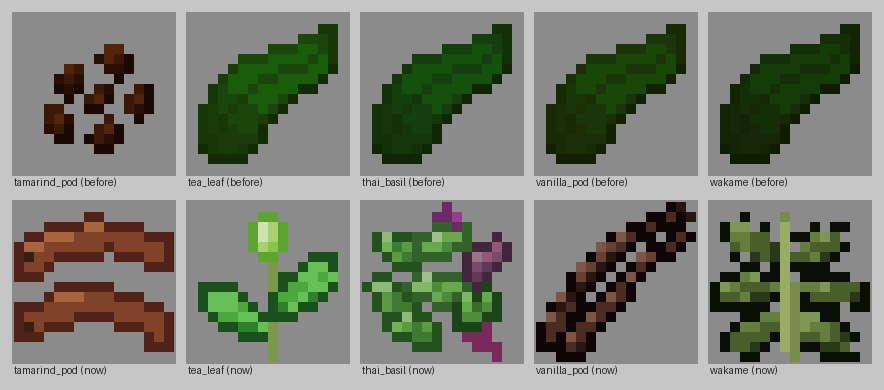
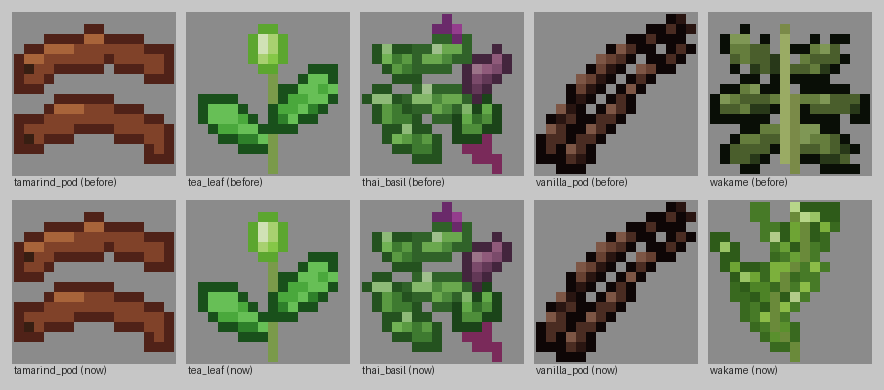
Redraw wakame as tall ribbon fronds from the user's references
Claude-Session: https://claude.ai/code/session_015LnbBras9DEmUQEKydUTyp

Changed region(s): [[0.0, 0.0308, 1.0, 0.4615], [0.7941, 0.4923, 1.0, 0.9538]]

diff --git a/.workflow/art/item_sprites.py b/.workflow/art/item_sprites.py
@@ -2337,16 +2337,20 @@ def vanilla_pod_hand():
 
 def wakame_hand():
     s = Sprite()
-    frond = ramp("#4a5e2c", spread=0.8)
-    # A fresh frond: a firm midrib with broad, wavy, lobed blades spreading to either side.
-    for cx, cy, angle in [(4.2, 4.2, -150), (10.8, 4.6, -30), (3.6, 8.8, 170), (12.2, 9.0, 10), (4.6, 13.0, 150), (11.4, 13.2, 30)]:
-        mask = s.ellipse(frond, cx, cy, 4.0, 2.3, angle=angle, texture=lambda x, y: 1 if (x * 2 + y) % 5 == 0 else 0)
-        for x, y in mask:
-            if (x * 3 + y) % 7 == 0 and s.pixels[y][x] == frond[OUTLINE]:
-                s.put(x, y, None)  # A wavy edge.
-    rib = ramp("#7a8a48")
-    s.line(rib[BASE], 8, 15, 7, 1)
-    s.line(rib[LIGHT], 7, 14, 7, 2)
+    stem = ramp("#6a8a3a")
+    # A tall, swaying stem with long, wavy ribbon blades rising from it in turns, translucent yellow-green.
+    stem_points = [(int(8 + 1.4 * math.sin(y * 0.45)), y) for y in range(15, 0, -1)]
+    blades = [(13, -1, 4.6), (11, 1, 5.0), (9, -1, 5.2), (7, 1, 5.0), (5, -1, 4.4), (3, 1, 3.8)]
+    for k, (y0, side, length) in enumerate(blades):
+        blade = ramp(["#7cb03c", "#8cbc48", "#6ea434"][k % 3], spread=0.65)
+        x0 = stem_points[15 - y0][0]
+        # Each ribbon rises and curls away from the stem, with a wavy edge.
+        points = [(x0 + side * t * 0.95, y0 - t * 0.85 - 0.6 * math.sin(t * 1.6)) for t in [i * length / 6 for i in range(7)]]
+        s.capsule(blade, points, (1.6, 0.9))
+        s.put(int(points[3][0]), int(points[3][1]), blade[HIGHLIGHT])
+    for x, y in stem_points:
+        s.put(x, y, stem[BASE])
+    s.pixels_at(ramp("#9ac85a")[LIGHT], [(8, 0), (9, 1)])
     return s
 
 
